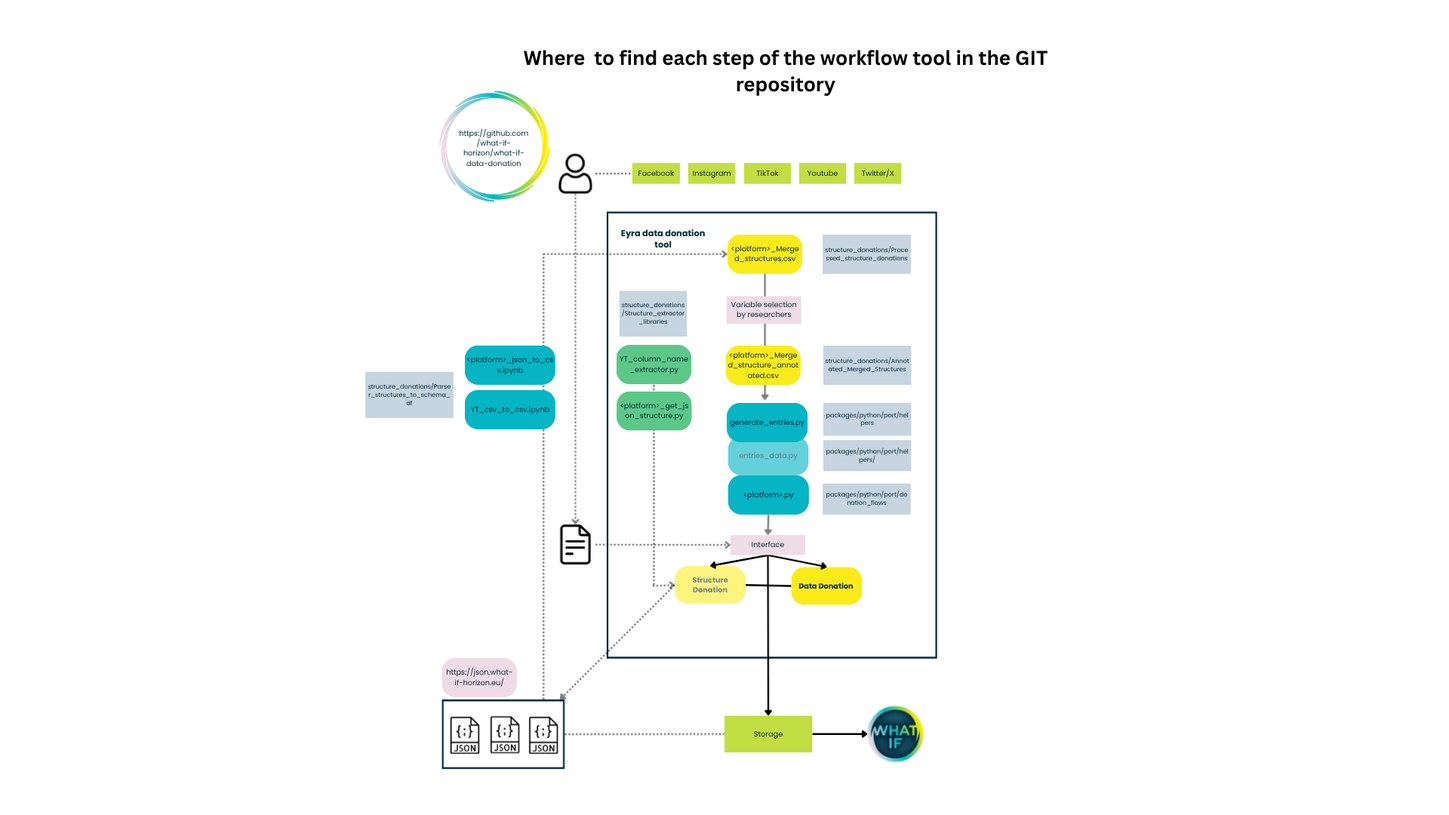
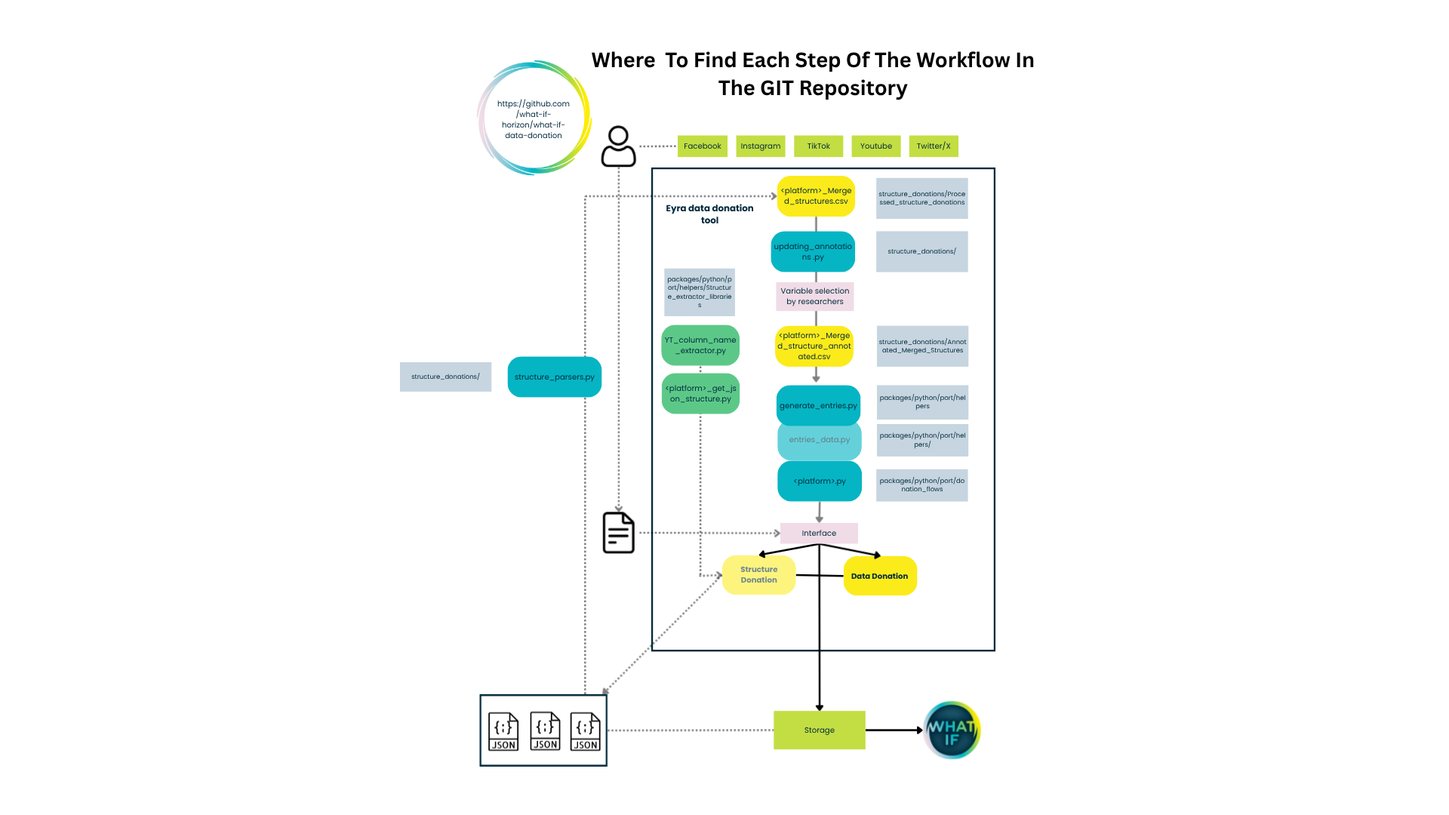
Integrate feedback andreu

Changed region(s): [[0.25, 0.0611, 0.7188, 0.9472]]

diff --git a/workflow_data_donation_tool.md b/workflow_data_donation_tool.md
@@ -1,5 +1,5 @@
 # How to use and implement this data donation tool
-This data donation tool in an extension of the Feldspar repository which can be implemented in the Eyra environment to collect data donations. The aim of this extension in to collect data donations with the highest standards for data privacy while reducing the risk of omitted variables or unnecessary data loss as much as possible. This documentation serves as a step-by-step guide to first understand the rationale and the strategy behind each component of the tool and consequently lays out how to use and update the tool in the pre-production and the production phase.
+This data donation tool in an extension of the Feldspar repository which can be implemented in the Eyra environment to collect data donations. The aim of this extension in to collect data donations with the highest standards for data privacy while reducing the risk of omitted variables or unnecessary data loss as much as possible. This documentation serves as a step-by-step guide to first understand the rationale and the strategy behind each component of the tool and consequently lays out how to use and update the tool when in production
 
 ## Workflow Data Donation Tool
 
@@ -8,31 +8,28 @@ This data donation tool in an extension of the Feldspar repository which can be 
 ![Workflow](workflow_visuals/workflow.png)
 ![Git](workflow_visuals/git_repository.png)
 
-### 1. Data structure collection
+### 1. Masked Data Structure Collection
 - **Input**: Zip folder including JSON files (YT, FB, IG, X) or JSON (TT) containing the full data takeout
 - **Output**: JSON containing the masked data structures 
-#### The rationale
+#### The Rationale
 Social media takeout data contains highly sensitive and private data. Think about IP addresses, contact details and photos. Moreover, according to the article 5(1)(c) of the GDPR, which states: “Personal data shall be adequate, relevant and limited to what is necessary in relation to the purposes for which they are processed (‘data minimisation’).”, on other words, only data that will be of use for achieving the goal of the project should be collected. To do so, we need the exact variable names and as most data takeouts are provided in JSON format, the exact json paths to these variables,  to only collect data we intent to collect. Unfortunately, the social media takeout formats and structures are not consistent over time, location and platform. Hence, we need to collect a representative sample of these social media structures to properly select the variables we intend to collect and avoid unintentionally omitted variables. 
 
-#### The strategy 
+#### The Strategy 
 The strategy to collect the social media data takeout structures is rather simple. When participants upload their social media data takeout in the donation tool, all keys in te case of JSON and all column names in the case of CSVs are saved with the values masked through replacing the real data with a string specifying the data type (eg. 'string', 'boolean'). These data structures are then used to inform the data donation tool for the next iteration of collecting data using the tool. When there are no data structures available yet, we run a test round with a small but representative sample of participants to obtain these structures. During the data collection process, the data structures should be used to update the tool with the latests variables and paths. In the future, we hope that each data donation study will make the data structures publicly available to support new studies. 
 
-#### The code
+#### The Code
 The python code which does the masking of real values in the social media can be found [here](https://github.com/what-if-horizon/what-if-data-donation/tree/master/structure_donations/Structure_extractor_libraries) in the GIT repository. There is a specific script for each of the social media platforms. The code recursively loops through all JSON files in the zip file (in case of multi-document takeouts) and consequently trough all values in the JSON, replacing them with a string indicating the data type.
 
 
-### 2. Processing of data structures
+### 2. Mapping Data Structures 
 - **Input**: JSONs containing the masked data structures per platform per participant
 - **Output**: One CSV per platform containing the file paths to the different JSON files and the consequent JSON paths to the lowest key
-#### The rationale
+#### The Rationale
 To comply with rules on informed consent we need to inform the participants clearly on what data they will be donating. As JSON files are not easily interpretable by humans, the data should be transformed to a more easily readable tabular format. To do so we need to obtain the full JSON path to each lowest level key to be able to transform the data to tabular format. Also, as only necessary and non highly sensitive or private data should be selected, the researcher needs to make decisions on exactly which data to obtain and which data to exclude. Due to differences in data takeout structures, the JSON paths might differ slightly but point to the same data. Therefore, we generate IDs for each data field that are easy to interpret for researchers. Using the IDs the researcher decides what data to collect.
 
-#### The strategy
+#### The Strategy
 To obtain the full JSON path, a python script has been created for each platform separately as the JSON structure of each platform is different with its own challenges and quirks. Also, due to the deeply nested structures most existing libraries to extract JSON paths do not work. The processing output is a CSV file named [<'platform'>_Merged_Structures.csv](https://github.com/what-if-horizon/what-if-data-donation/tree/master/structure_donations/Processed_structure_donations) with the following columns:
 - **json_name**: Name of the JSON file in which the JSON path can be found
-- **id**: Unique ID for each data field. 
-    - See below for more detail on the construction of the IDs
-    - Note that due to slight differences in the JSON paths, identical data fields can have different IDs and hence need to be modified by hand
 - **column_name**: The name of the lowest level key in the JSON path
 - **path**: The full JSON path
 - **list_path**: In case the value of a key is a list rather than a value, this column contains the JSON path until the list
@@ -40,107 +37,102 @@ To obtain the full JSON path, a python script has been created for each platform
 - **var_type**: Describes whether the variable is included in a list ('list') or is a regular variable ('static')
 - **file_path**: Certain data takeouts are zipfiles consisting of a nested folder structure. The path to the JSON files are specified in this column. 
 - **duplicate_flag**: In case there is an ID that is duplicated due to JSON paths containing keys holding identical information but different json paths. For example parts of the data can be enlisted whereas in other cases the data is not. When a duplicate ID is found, this ID is marked as 'Yes'
-
-##### ID creation
-###### Instagram
-The ID for Instagram initially consist of the folder name in which the JSON is stored, the name of the json and the column name. In case this does not result into a unique ID, in the following iterations (max 4), json keys are added starting at the deepest level. If again this does not result in a unique ID, the folder one level higher is added to the ID as well. In other words the most minimal ID consist of lowest folder name + json name + column name. The maximum ID consist of the second lowest folder + lowest folder name + json name + key[1,2,3] + column name.
-
-###### Facebook
-The ID for Facebook initially consist of the folder name in which the JSON is stored, the name of the json and the column name. In case this does not result into a unique ID, in the following iterations (max 6), json keys are added starting at the deepest level. If again this does not result in a unique ID, the folder up until 3 levels higher is added to the ID as well. In other words the most minimal ID consist of lowest folder name + json name + column name. The maximum ID consist of the second lowest folder[1,2,3] + lowest folder name + json name + key[1,2,3] + column name.
-
-###### TikTok
-The ID for TikTok initially consist of the highest level key in combination with the lowest level key. If this does not result in an unique ID, more keys are added until the maximum number of keys present in the JSON is reached or a unique ID has been established. 
+- ***id**: Unique ID for each data field. 
+    - See below for more detail on the construction of the IDs
+    - Note that due to slight differences in the JSON paths, identical data fields can have different IDs and hence need to be modified by hand
 
 
-###### Twitter
-The ID for Twitter initially consist of the name of the Java script file combined with the name of the lowest level key. In case this does not result in an unique ID, more keys are added starting at the deepest level until the maximum number of keys has been reached or an unique ID has been created.
-
-###### Youtube 
-**JSON**
-The ID for the Youtube JSONs initially consist of the name of the Java script file combined with the name of the lowest level key. In case this does not result in an unique ID, more keys are added starting at the deepest level until the maximum number of keys has been reached or an unique ID has been created.
-**CSV**
+> **ID creation**
+> ###### Instagram
+> The ID for Instagram initially consist of the folder name in which the JSON is stored, the name of the JSON and the column name. In case this does not result into a unique ID, in the following iterations (max 4), JSON keys are added starting at the deepest level. If again this does not result in an unique ID, the folder one level higher is added to the ID as well. In other words the most minimal ID consist of lowest folder name + JSON name + column name. The maximum ID consist of the second lowest folder + lowest folder name + json name + key[1,2,3] + column name.
+>
+>###### Facebook
+>The ID for Facebook initially consist of the folder name in which the JSON is stored, the name of the json and the column name. In case this does not result into a unique ID, in the following iterations (max 6), json keys are added starting at the deepest level. If again this does not result in a unique ID, the folder up until 3 levels higher is added to the ID as well. In other words the most minimal ID consist of lowest folder name + json name + column name. The maximum ID consist of the second lowest folder[1,2,3] + lowest folder name + json name + key[1,2,3] + column name.
+>
+>###### TikTok
+>The ID for TikTok initially consist of the highest level key in combination with the lowest level key. If this does not result in an unique ID, more keys are added until the maximum number of keys present in the JSON is reached or a unique ID has been established. 
+>
+>###### Twitter
+>The ID for Twitter initially consist of the name of the Java script file combined with the name of the lowest level key. In case this does not result in an unique ID, more keys are added starting at the deepest level until the maximum number of keys has been reached or an unique ID has been created.
+>
+>###### Youtube 
+>- **JSON**:
+>The ID for the Youtube JSONs initially consist of the name of the Java script file combined with the name of the lowest level key. In case this does not result in an unique ID, more keys are added starting at the deepest level until the maximum number of keys has been reached or an unique ID has been created.
+>- **CSV**:
 The ID for the Youtube CSV consist of the name of the CSV and the column name. 
 
 
-#### The code
-The jupyter notebooks to generate the <'platform'>_Merged_Structures.csv can be found [here](https://github.com/what-if-horizon/what-if-data-donation/tree/master/structure_donations/Parser_structures_to_schema_df) in the GIT repository. After loading the data structures, the code flattens the JSON while taking into account and labeling the enlisted JSON paths. This is done for each data structure independently after which the CSVs containing the flattened JSON files are merged and the IDs are generated. 
+#### The Code
+To generate the <'platform'>_Merged_Structures.csv, run the [structure_parsers.py](.). After loading the data structures, the code flattens the JSON while taking into account and labeling the enlisted JSON paths. This is done for each data structure independently after which the CSVs containing the flattened JSON files are merged and the IDs are generated. 
 
+```
+python3 structure_donations/structure_parsers.py
+```
 
-### 3. Variable selection by researchers
+### 3. Variable Selection by Researchers (manual annotation)
 - **Input**: CSV per platform containing the merged data structures
 - **Output**:  CSV per platform containing the merged data structures including a column KeepID containing the IDs of the variables that should be collected
 
-#### The rationale 
+#### The Rationale 
 As explained above only relevant non highly personal data should be collected. The decision of which variables to collect should be made by the researcher.
 
-#### The strategy
-The researcher merges new rows including a timestamp of the <'platform'>_Merged_Structures.csv to the [<'platform'>_Merged_Structures_Annotated.csv](https://github.com/what-if-horizon/what-if-data-donation/tree/master/structure_donations/Annotated_schema_df) using the he [Updating_merged_structures_annotated.ipynb](https://github.com/what-if-horizon/what-if-data-donation/blob/master/structure_donations/Updating_merged_structures/Updating_merged_structures_annotated.ipynb).  The researcher goes trough the new rows and pastes the ID in the 'KeepID' column in case she wishes to collect that variable. In case she finds different IDs pointing at the same data, she decides on the final ID and replaces the original ID. It is highly important that the row is kept with the new ID as the differing JSON path is important to maintain as to collect the variable correctly. 
+#### The Strategy
+The researcher merges new rows including a timestamp of the <'platform'>_Merged_Structures.csv to the [<'platform'>_Merged_Structures_Annotated.csv](https://github.com/what-if-horizon/what-if-data-donation/tree/master/structure_donations/Annotated_schema_df) using the he [updating_annotations.py](https://github.com/what-if-horizon/what-if-data-donation/blob/master/structure_donations/Updating_merged_structures/Updating_merged_structures_annotated.ipynb).  The researcher goes trough the new rows and pastes the ID in the 'KeepID' column in case she wishes to collect that variable. In case she finds different IDs pointing at the same data, she decides on the final ID and replaces the original ID. It is highly important that the row is kept with the new ID as the differing JSON path is important to maintain as to collect the variable correctly. 
 
-#### The code
-The [Updating_merged_structures_annotated.ipynb](https://github.com/what-if-horizon/what-if-data-donation/blob/master/structure_donations/Updating_merged_structures/Updating_merged_structures_annotated.ipynb) performs an anti-join between the <'platform'>_Merged_Structures_Annotated.csv and the newly generated <'platform'>_Merged_Structures.csv to indicate the new rows and provide a timestamp. Then, the new rows are appended to the [<'platform'>_Merged_Structures_Annotated.csv](https://github.com/what-if-horizon/what-if-data-donation/tree/master/structure_donations/Annotated_schema_df)
+#### The Code
+The [updating_annotations.py](.) performs an anti-join between the <'platform'>_Merged_Structures_Annotated.csv and the newly generated <'platform'>_Merged_Structures.csv to indicate the new rows and provide a timestamp. Then, the new rows are appended to the [<'platform'>_Merged_Structures_Annotated.csv](https://github.com/what-if-horizon/what-if-data-donation/tree/master/structure_donations/Annotated_schema_df)
 
-### 4. Implementation of data donation tool
+```
+python3 structure_donations/updating_annotations.py
+```
+
+
+### 4. Implementation of Data Donation Tool
 - **Input**: Annotated merged structure CSVs
 - **Output**: Data donations flattened into multiple interpretable tables 
 
-#### The rationale
+#### The Rationale
 To make the data interpretable for the participants and give them a fair opportunity to opt out of the data they do not wish to donate, the JSONs need to be flattened into tables.
 
 
-#### The strategy
+#### The Strategy
 The variables with an ID in the 'KeepID' column in the `[<'platform'>_Merged_Structures_Annotated.csv](https://github.com/what-if-horizon/what-if-data-donation/tree/master/structure_donations/Annotated_schema_df) are standardised and wrangled into a script which serves as input for the user interface and generates the tables. 
 
-#### The code
-The annotated merged structure CSVs are used as input to run the [generate_entries.py](https://github.com/what-if-horizon/what-if-data-donation/blob/master/structure_donations/generate_entries.py) (structure_donations/generate_entries.py) which outputs the entries_data.py. Only variables specified in the 'KeepID' column are included.  This generate_entries.py script serves as input for the [donation flow scripts](https://github.com/what-if-horizon/what-if-data-donation/tree/master/packages/python/port/donation_flows) which flatten the JSONs into tables and provide these tables to the participants in the user interface. 
-
-## The Data Collection
-Due to the novelty of the strategy applied in this data donation tool, we need to run through three different phases to collect sufficient data structures to execute the tool with minimal data loss. The phases are as follows:
-1. **Pre-production phase**: In this phase we manually collect data takeouts and convert them into merged data structures. The merged structures are used to inform the tool on what and how to retrieve the data from the data takeouts. This is needed to be able to execute the tool for the test-production phase. The main goal of this phase is to design and test the tool. 
-2. **Test phase**: As the manually collected data takeouts are not sufficient to capture all data structures for each platform, each country and over time, we do a test-production phase. The main goal of this phase is to collect a more representative sample of data structures and to test the functionality of the tool. During this phase the tool will be administered to a small but representative sample of respondents in each of the participating countries. 
-3. **Production phase**: During this phase the tool will be administered to the full panel of participants who will donate their data takeouts. 
-
-During the data collection, the data donation tool needs to be updated after each newly received batch of data donation This updating entails three main steps: 1. updating the the  <'platform'>_Merged_Structures.csv; 2. updating the  <platform>_Merged_Structures_Annotated.csv; 3. Rerun the generate_entries.py and 4. performing an end-to-end integration test.
-
-### Pre-production phase
-As the data donation tool needs masked data structures to be executed, before going into the test-production phase, some data takeouts have been manually collected, masked and used to create the merged data structures. As the pre-production phase cannot be done fully automated, the workflow for the pre-production phase is somewhat different than for the test-production and production phase.
-
-#### 1. Masking the full data donations
-1. Create a folder on your local machine named 'Raw' using this file path structure_donations/Processed_structure_donations/<'platform'>/Raw
-    - The gitignores contains instructions to never push the 'Raw' folder to git to avoid accidental pushing of private and sensitive data to git
-2. Execute the [structure_extractor_notebooks](https://github.com/what-if-horizon/what-if-data-donation/tree/master/structure_donations/Structure_extractor_notebooks) (structure_donations/Structure_extractor_notebooks)
-3. Check the [masked data structures](https://github.com/what-if-horizon/what-if-data-donation/tree/master/structure_donations/Processed_structure_donations) (structure_donations/Processed_structure_donations/<'platform'>/Input)
-
-#### 2. Updating the  <'platform'>_Merged_Structures.csv
-1. Run the [Parser_structures_to_merged_structures](https://github.com/what-if-horizon/what-if-data-donation/tree/master/structure_donations/Parser_structures_to_merged_structures) notebooks (structure_donations/Parser_structures_to_merged_structures)
-
-2. Check if the [merged structure csv](https://github.com/what-if-horizon/what-if-data-donation/tree/master/structure_donations/Processed_structure_donations) (structure_donations/Processed_structure_donations/<'platform'>/Final) has been updated correctly. 
+#### The Code
+The annotated merged structure CSVs are used as input to run the [generate_entries.py](https://github.com/what-if-horizon/what-if-data-donation/blob/master/structure_donations/generate_entries.py) (structure_donations/generate_entries.py) which outputs the entries_data.py. Only variables specified in the 'KeepID' column are included.  This entries_data.py script serves as input for the [donation flow scripts](https://github.com/what-if-horizon/what-if-data-donation/tree/master/packages/python/port/donation_flows) which flatten the JSONs into tables and provide these tables to the participants in the user interface. 
+```
+python3 structure_donations/generate_entries.py
+```
 
 
-#### 3. Updating the  <'platform'>_Merged_Structures_Annotated.csv
-1. Execute the [Updating_merged_structures_annotated.ipynb](https://github.com/what-if-horizon/what-if-data-donation/blob/master/structure_donations/Updating_merged_structures/Updating_merged_structures_annotated.ipynb)
-2. Check the [annotated merged structures](https://github.com/what-if-horizon/what-if-data-donation/tree/master/structure_donations/Annotated_Merged_Structures) (structure_donations/Annotated_Merged_Structures) to see if new rows are added
-3. Copy the IDs from the variables that should be collected into the 'KeepID' column
+## Updating the Data Donation Tool 
+Due to the novelty of the strategy applied in this data donation tool, we need to run through two different phases to collect sufficient data structures to execute the tool with minimal data loss. The phases are as follows: 
+1. **Collecting Masked Data Structures**: Due to differences in data takeout across platforms, each countries and over time, we first collect masked data structures (JSON structures of the data takeouts with the values containing true data masked out) The main goal of this phase is to collect a representative sample of data structures. During this phase the tool should be administered to a small but representative sample of respondents in each of the participating countries. This phase is optional to a certain extend. In case there has been a recent data donation study and the masked structures have been obtained, these can be re-used to inform the data donation tool. However, in case no such recent data is available, we highly recommend  collecting recent data structures as using old data structures might result in not capturing all data. We would like to urge researchers who have collected masked data structures to make them publicly available. . 
+2. **Production phase**: During this phase the tool will be administered to the full panel of participants who will donate their data takeouts. 
 
-![Updating](workflow_visuals/updating.png)
+During the data collection, the data donation tool needs to be updated after each newly received batch of data donation This updating entails three main steps: 1. Obtain the newly donated masked data structures from the Yoda environment, 2. updating the the  <'platform'>_Merged_Structures.csv; 3. updating the  <platform>_Merged_Structures_Annotated.csv; and 4. Rerun the generate_entries.py 
 
-#### 4. Rerun the generate_entries.py
-Rerun the [generate_entries.py](https://github.com/what-if-horizon/what-if-data-donation/blob/master/structure_donations/generate_entries.py) (structure_donations/generate_entries.py) to update the entries_data.py 
-![Workflow](workflow_visuals/workflow.png)
 
-### Test phase and Production phase
+### How To Update the Data Donation Tool
 During the test phase and the production phase, the tool needs to be updated in regular intervals to obtain optimal benefit from the donated data structures.
 
-#### 1. Obtain the newly donated data structures from the Yoda environment
+#### 1. Obtain the newly donated masked data structures from the Yoda environment
 NOT READY
 
 #### 2. Updating the  <'platform'>_Merged_Structures.csv
-1. Run the [Parser_structures_to_merged_structures](https://github.com/what-if-horizon/what-if-data-donation/tree/master/structure_donations/Parser_structures_to_merged_structures) notebooks (structure_donations/Parser_structures_to_merged_structures)
+1. Execute the [structure_parsers.py](.) (structure_donations/structure_parsers.py) from the repository root
+```
+python3 structure_donations/structure_parsers.py
+```
 
 2. Check if the [merged structure csv](https://github.com/what-if-horizon/what-if-data-donation/tree/master/structure_donations/Processed_structure_donations) (structure_donations/Processed_structure_donations/<'platform'>/Final) has been updated correctly. 
 
 
 #### 3. Updating the  <'platform'>_Merged_Structures_Annotated.csv
-1. Execute the [Updating_merged_structures_annotated.ipynb](https://github.com/what-if-horizon/what-if-data-donation/blob/master/structure_donations/Updating_merged_structures/Updating_merged_structures_annotated.ipynb)
+1. Execute the [updating_annotations.py](.)
+```
+python3 structure_donations/updating_annotations.py
+```
 2. Check the [annotated merged structures](https://github.com/what-if-horizon/what-if-data-donation/tree/master/structure_donations/Annotated_Merged_Structures) (structure_donations/Annotated_Merged_Structures) to see if new rows are added
 3. Copy the IDs from the variables that should be collected into the 'KeepID' column
 
@@ -150,10 +142,11 @@ NOT READY
 Rerun the [generate_entries.py](https://github.com/what-if-horizon/what-if-data-donation/blob/master/structure_donations/generate_entries.py) (structure_donations/generate_entries.py) to update the entries_data.py 
 ![Workflow](workflow_visuals/workflow.png)
 
+```
+python3 structure_donations/generate_entries.py
+```
 
-#### 5. Perform an end-to-end integration test (NEED FIXES)
-![Workflow testing](workflow_visuals/testing_tool.png)
-For a full explanation on how to run the end-to-end integration test, please click [here.](https://github.com/what-if-horizon/what-if-data-donation/blob/master/pytests/README.md)
+
 
 
 
